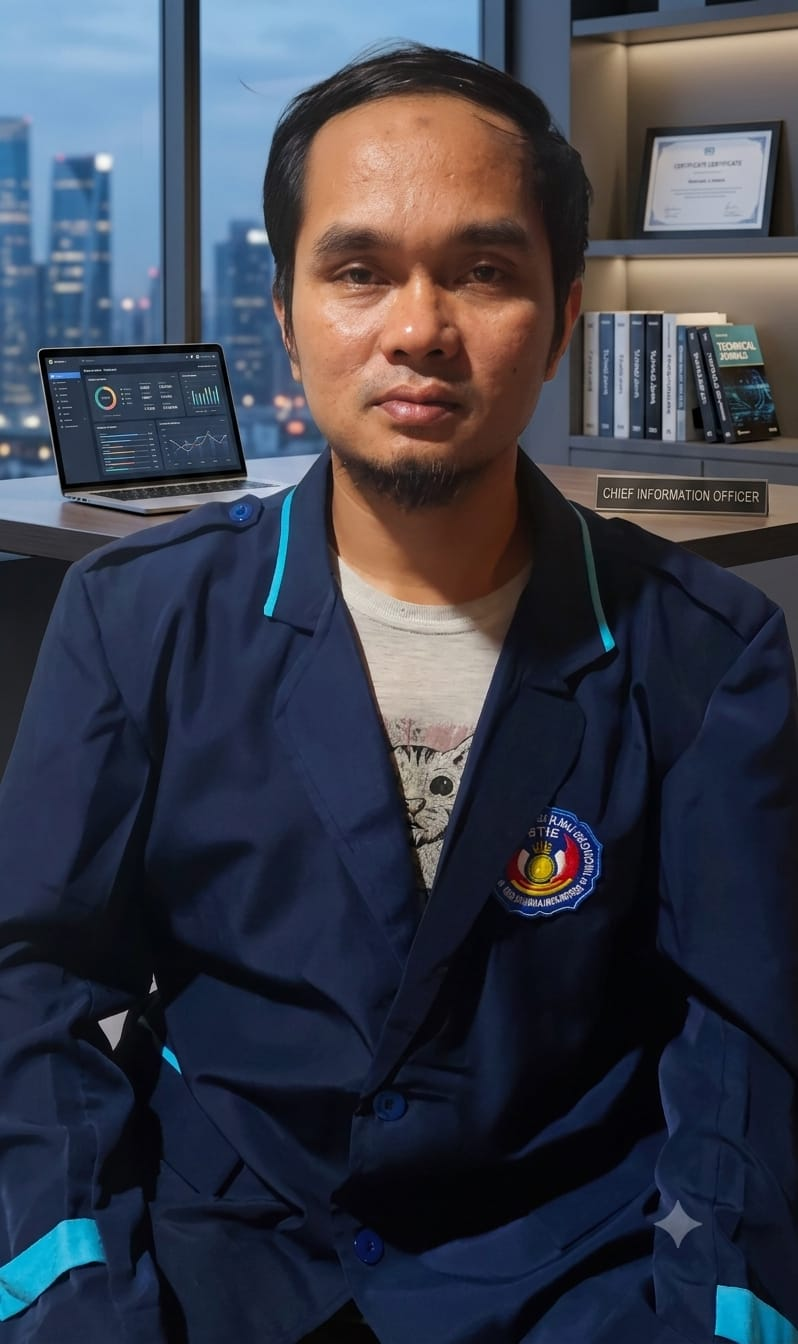
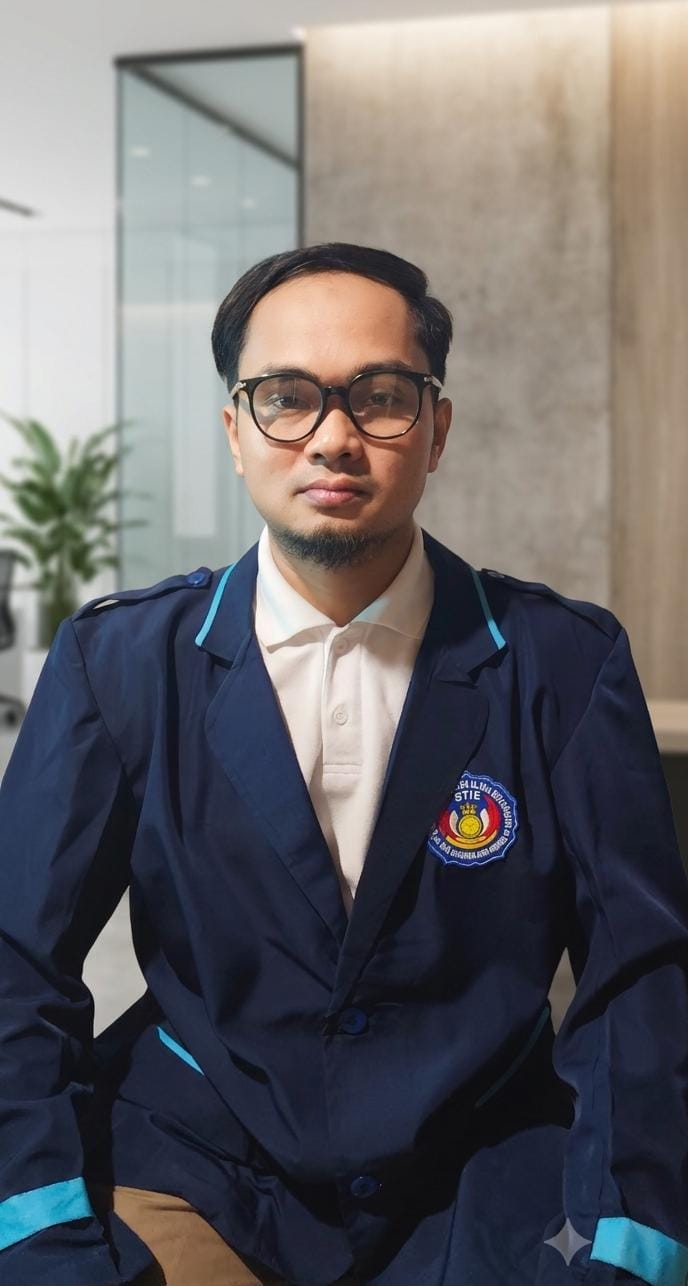
refactor(about): update personal reflection in about section
Replace academic description with a more personal reflection on the learning experience in the Application Business Computer course.

diff --git a/src/components/AboutUs.tsx b/src/components/AboutUs.tsx
@@ -119,7 +119,7 @@ export default function AboutUs({ onBackToHome }: AboutUsProps) {
                   <h4 className="font-display font-bold text-xs sm:text-sm text-slate-150">Kesan Mengikuti Perkuliahan</h4>
                 </div>
                 <p className="text-[11px] sm:text-xs text-slate-300 leading-relaxed font-light bg-slate-950/20 p-3.5 rounded-xl border border-slate-850/60">
-                  Perkuliahan <strong className="text-sky-400 font-semibold">Aplikasi Komputer Bisnis</strong> di STIE Ekadharma Indonesia telah memberikan pengalaman belajar yang sangat luar biasa dan berharga. Mata kuliah ini tidak hanya mengajarkan teori, tetapi juga memberikan pemahaman mendalam tentang bagaimana teknologi digital modern dapat diintegrasikan secara nyata untuk memecahkan problem operasional bisnis, seperti pembuatan kalkulator estimasi biaya otomatis dan asisten berbasis kecerdasan buatan. Dosen pembimbing menyampaikan materi secara interaktif dan praktis, sehingga melatih kreativitas, ketelitian, dan logika pemecahan masalah kami guna menghadapi tantangan digitalisasi industri di masa depan.
+                  Jujur selama mengikuti perkuliahan Aplikasi Komputer Bisnis yang di ampu Pak Ali saya merasa balik ke masa dimana saya masih senang utak atik komputer, buat aplikasi sederhana, buat game sederhana pake delfi, visual basic dll. Apalagi penjelasan Pak Ali sangat detail, saya merasa menemukan lagi sesuatu yang hilang dalam diri saya. Mungkin kayak lebay, tapi dulu hobi saya memang lebih ke dunia IT, namun perlahan hilang ditimbun kesibukan dan kebutuhan.
                 </p>
               </div>
 